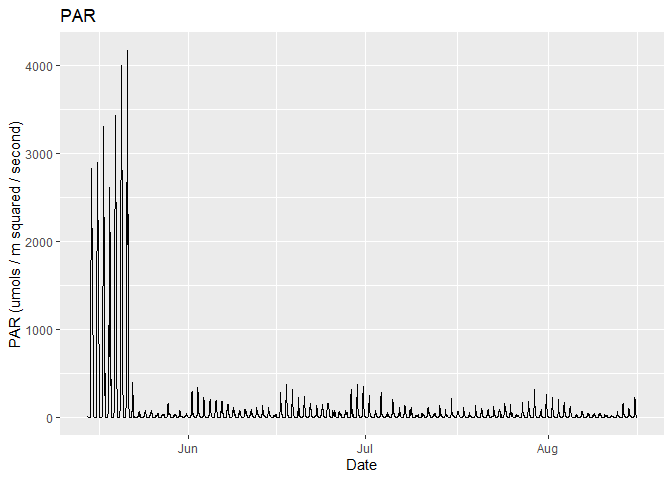
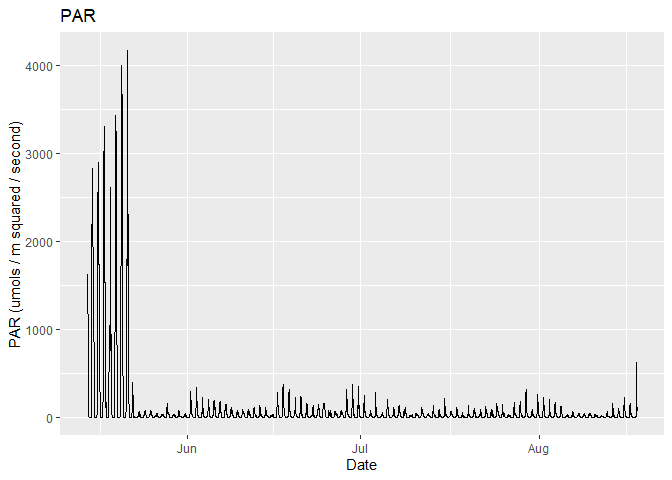
updated clip function - auto not proper

diff --git a/README.md b/README.md
@@ -25,6 +25,69 @@ x <- read_parXtreem()
 x
 ```
 
+    ## # A tibble: 9,121 x 5
+    ##     Temp   PAR ID           logDateTime DateTime           
+    ##    <dbl> <dbl> <chr>              <dbl> <dttm>             
+    ##  1  7.19 1622. FE23BC74DC01  1621022400 2021-05-14 20:00:00
+    ##  2  7.13  739. FE23BC74DC01  1621023300 2021-05-14 20:15:00
+    ##  3  7.13  206. FE23BC74DC01  1621024200 2021-05-14 20:30:00
+    ##  4  7.19  957. FE23BC74DC01  1621025100 2021-05-14 20:45:00
+    ##  5  7.19  443. FE23BC74DC01  1621026000 2021-05-14 21:00:00
+    ##  6  7.25  635. FE23BC74DC01  1621026900 2021-05-14 21:15:00
+    ##  7  7.25  834. FE23BC74DC01  1621027800 2021-05-14 21:30:00
+    ##  8  7.38  695. FE23BC74DC01  1621028700 2021-05-14 21:45:00
+    ##  9  7.44  433. FE23BC74DC01  1621029600 2021-05-14 22:00:00
+    ## 10  7.5   364. FE23BC74DC01  1621030500 2021-05-14 22:15:00
+    ## # ... with 9,111 more rows
+
+## Draw Example Plot
+
+``` r
+parplot_x <- draw_plot(x)
+parplot_x
+```
+
+![](README_files/figure-gfm/parplot-1.png)<!-- -->
+
+## Read Example Data with Defined Start/Stop Dates
+
+``` r
+ss <- as.POSIXct(c("2021-05-20", "2021-06-01"), tz = "UTC")
+xud <- read_parXtreem(clipped = "user", startstop = ss)
+xud
+```
+
+    ## # A tibble: 1,153 x 5
+    ##     Temp   PAR ID           logDateTime DateTime           
+    ##    <dbl> <dbl> <chr>              <dbl> <dttm>             
+    ##  1  9.5   955. FE23BC74DC01  1621454400 2021-05-19 20:00:00
+    ##  2  9.38  873. FE23BC74DC01  1621455300 2021-05-19 20:15:00
+    ##  3  9.31  765. FE23BC74DC01  1621456200 2021-05-19 20:30:00
+    ##  4  9.31  666. FE23BC74DC01  1621457100 2021-05-19 20:45:00
+    ##  5  8.75  566. FE23BC74DC01  1621458000 2021-05-19 21:00:00
+    ##  6  8.31  473  FE23BC74DC01  1621458900 2021-05-19 21:15:00
+    ##  7  8     412. FE23BC74DC01  1621459800 2021-05-19 21:30:00
+    ##  8  7.81  356. FE23BC74DC01  1621460700 2021-05-19 21:45:00
+    ##  9  7.81  297. FE23BC74DC01  1621461600 2021-05-19 22:00:00
+    ## 10  7.81  246. FE23BC74DC01  1621462500 2021-05-19 22:15:00
+    ## # ... with 1,143 more rows
+
+## Draw Example Plot User Defined Start/Stop Dates
+
+``` r
+parplot_xud <- draw_plot(xud)
+parplot_xud
+```
+
+![](README_files/figure-gfm/parplot_ud-1.png)<!-- -->
+
+## Read Example Data Without Clipping Data
+
+``` r
+xna <- read_parXtreem(clipped = "none")
+xna
+```
+
     ## # A tibble: 9,166 x 5
     ##     Temp   PAR ID           logDateTime DateTime           
     ##    <dbl> <dbl> <chr>              <dbl> <dttm>             
@@ -40,35 +103,11 @@ x
     ## 10  13.4  37.8 FE23BC74DC01  1620999000 2021-05-14 13:30:00
     ## # ... with 9,156 more rows
 
-## Read Example Data with Defined Deploy/Recover Dates
+## Draw Example Plot Without Clipping Data
 
 ``` r
-d <- as.POSIXct("2021-05-15", "")
-r <- as.POSIXct("2021-08-16", "")
-xdr <- read_parXtreem(deploy = d, recover = r)
-xdr
+parplot_na <- draw_plot(xna)
+parplot_na
 ```
 
-    ## # A tibble: 8,929 x 5
-    ##     Temp   PAR ID           logDateTime DateTime           
-    ##    <dbl> <dbl> <chr>              <dbl> <dttm>             
-    ##  1  7.69 11.2  FE23BC74DC01  1621036800 2021-05-15 00:00:00
-    ##  2  7.69  1.54 FE23BC74DC01  1621037700 2021-05-15 00:15:00
-    ##  3  7.69  0.22 FE23BC74DC01  1621038600 2021-05-15 00:30:00
-    ##  4  7.69  0    FE23BC74DC01  1621039500 2021-05-15 00:45:00
-    ##  5  7.63  0    FE23BC74DC01  1621040400 2021-05-15 01:00:00
-    ##  6  7.63  0    FE23BC74DC01  1621041300 2021-05-15 01:15:00
-    ##  7  7.5   0    FE23BC74DC01  1621042200 2021-05-15 01:30:00
-    ##  8  7.44  0    FE23BC74DC01  1621043100 2021-05-15 01:45:00
-    ##  9  7.44  0    FE23BC74DC01  1621044000 2021-05-15 02:00:00
-    ## 10  7.44  0    FE23BC74DC01  1621044900 2021-05-15 02:15:00
-    ## # ... with 8,919 more rows
-
-## Draw Example Plot
-
-``` r
-parplot <- draw_plot(xdr)
-parplot
-```
-
-![](README_files/figure-gfm/parplot-1.png)<!-- -->
+![](README_files/figure-gfm/parplot_na-1.png)<!-- -->
